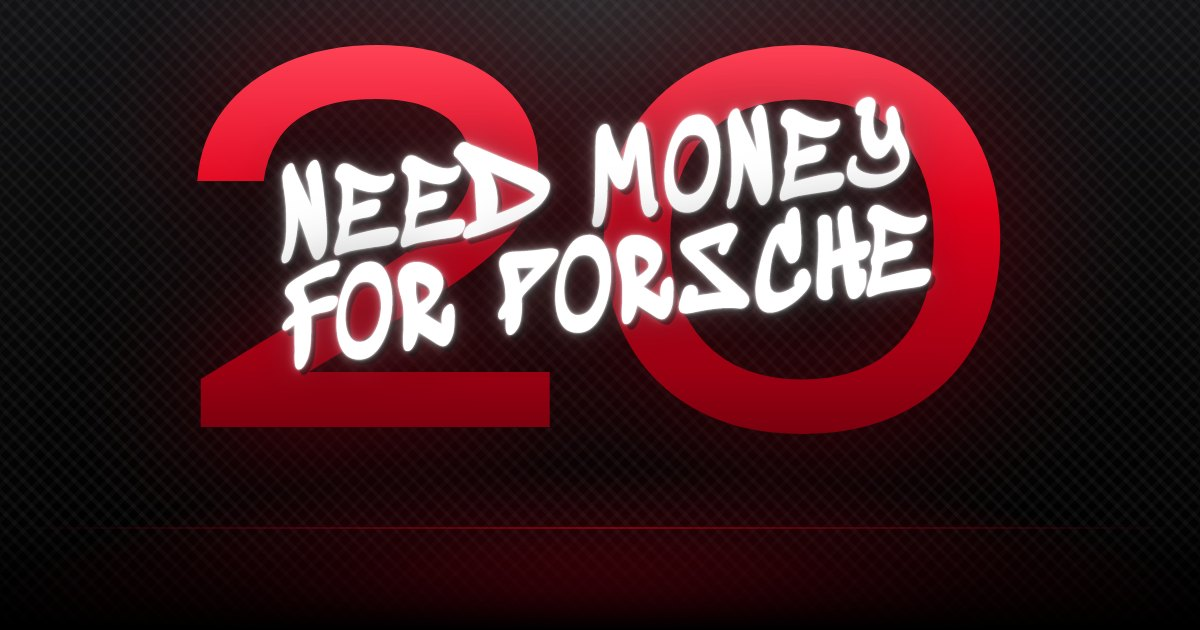
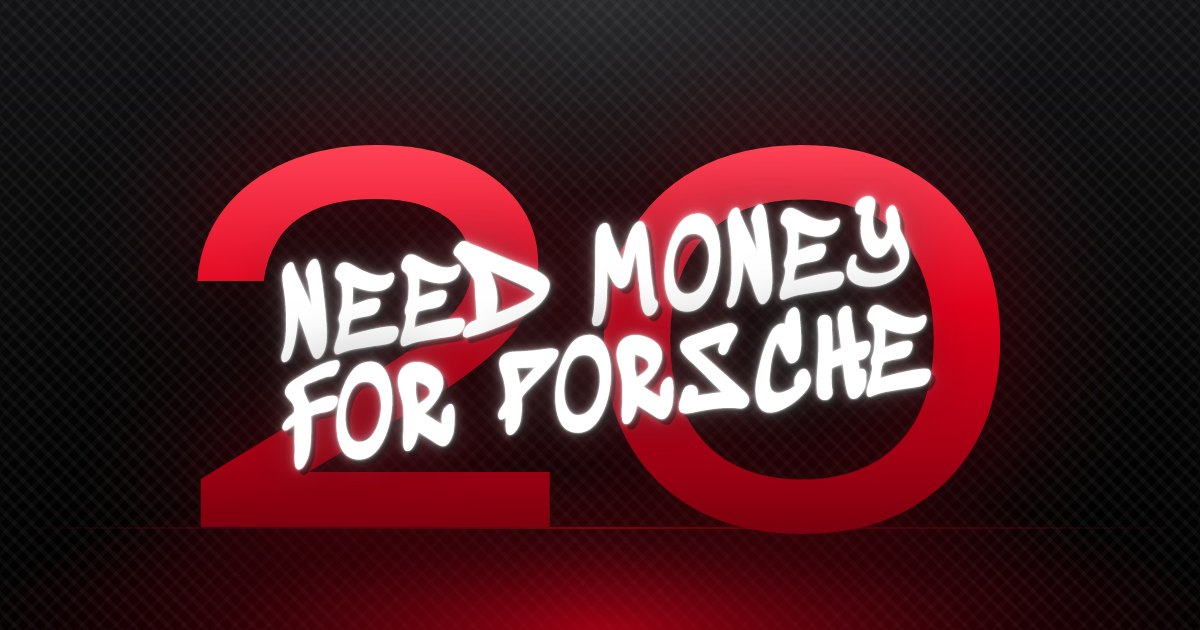
Centered link preview; iPhone Instagram: Google first, Apple points to Safari

diff --git a/index.html b/index.html
@@ -12,7 +12,7 @@
 <meta property="og:title" content="Pomagaj Stepanu do Porscheja">
 <meta property="og:description" content="20 let praznujemo 20. 11. Zbiram za Porsche. Sprejemam samo gotovino. Petek, Caffe Bienale.">
 <meta property="og:type" content="website">
-<meta property="og:image" content="https://stefikus67.github.io/zur20/assets/og.jpg">
+<meta property="og:image" content="https://stefikus67.github.io/zur20/assets/og.jpg?v=2">
 <meta property="og:image:width" content="1200">
 <meta property="og:image:height" content="630">
 <meta property="og:image:alt" content="Rdeča 20 in grafit: Need money for Porsche">
@@ -239,6 +239,8 @@
   .cal .stack { display: grid; gap: 10px; }
   .hint { font-size: 14px; color: var(--muted); margin: 10px 0 0; }
   .hint b { color: var(--ink); }
+  .hint.flash { animation: flash 1.2s ease-out; }
+  @keyframes flash { 0%, 30% { color: var(--ink); background: rgba(225,0,27,.35); } 100% { background: transparent; } }
   .cal .sub { margin: -6px 0 10px; color: var(--muted); font-size: 14px; }
   .manual { width: 100%; font: inherit; font-size: 15px; padding: 12px; border-radius: var(--r-sm); border: 1px solid var(--line); background: #111; color: var(--ink); user-select: text; -webkit-user-select: text; }
   .chip { margin: 14px 0 0; color: var(--muted); font-size: 15px; }
@@ -724,21 +726,27 @@
     if (calBuilt) return; calBuilt = true;
     var box = $('calBtns'), hint = $('calHint'), esc = $('escape');
     var ics = absUrl(ICS_PATH), g = googleUrl();
-    // Instagram's iPhone browser can't open a downloaded .ics; webcal:// hands it to the Calendar app instead.
-    var appleHref = (isIOS && isInApp) ? ics.replace(/^https?:/, 'webcal:') : ics;
-    var apple = a(appleHref, isAndroid ? 'Drug koledar (.ics)' : 'Apple koledar (iPhone)', '', 'ics');
+    // Instagram's iPhone browser can't open the .ics (tested 12.11, webcal:// too): there Google goes first
+    // and the Apple button points to the Safari tip instead of a dead download.
+    var iosApp = isIOS && isInApp;
+    var apple = a(ics, isAndroid ? 'Drug koledar (.ics)' : (iosApp ? 'Apple koledar (v Safariju)' : 'Apple koledar (iPhone)'), '', 'ics');
     if (!isAndroid) $('calSub').hidden = false;
     var google = a((isAndroid && isInApp) ? chromeIntent(g) : g, 'Google koledar', '', 'google');
-    if (isAndroid) { google.classList.add('primary'); box.appendChild(google); box.appendChild(apple); }
+    if (isAndroid || iosApp) { google.classList.add('primary'); box.appendChild(google); box.appendChild(apple); }
     else { apple.classList.add('primary'); box.appendChild(apple); box.appendChild(google); }
+    if (iosApp) apple.addEventListener('click', function (e) {
+      e.preventDefault();
+      hint.classList.remove('flash'); void hint.offsetWidth; hint.classList.add('flash');
+      var c = esc.querySelector('button, input'); if (c) try { c.focus(); } catch (er) {}
+    });
 
     if (isIOS) {
       if (isInApp) {
         hint.innerHTML = '';
         var b = document.createElement('b');
-        b.textContent = 'Ne dela v ' + (appName === 'Instagram' ? 'Instagramu' : (appName === 'Facebook' ? 'Facebooku' : 'aplikaciji')) + '?';
+        b.textContent = 'Apple koledar:';
         hint.appendChild(b);
-        hint.appendChild(document.createTextNode(' Tapni ⋯ zgoraj desno → »Open in external browser«.'));
+        hint.appendChild(document.createTextNode(' tapni ⋯ zgoraj desno → »Open in external browser«.'));
         var copy = document.createElement('button');
         copy.type = 'button'; copy.textContent = 'Kopiraj povezavo za Safari';
         copy.addEventListener('click', function () { copyLink(copy); });
